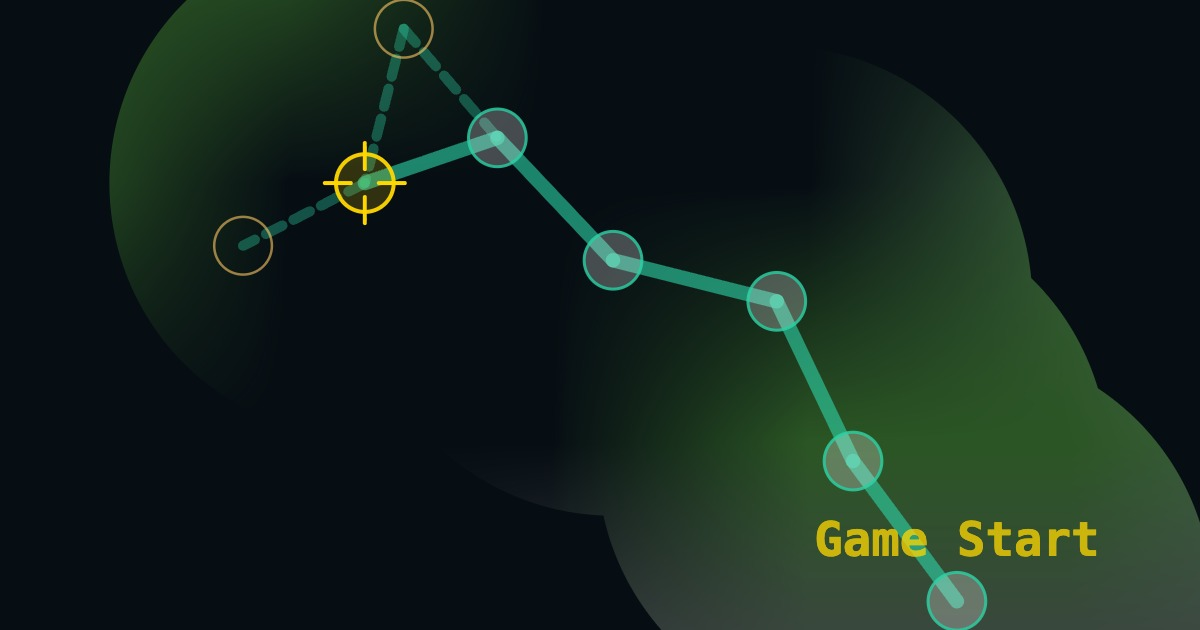
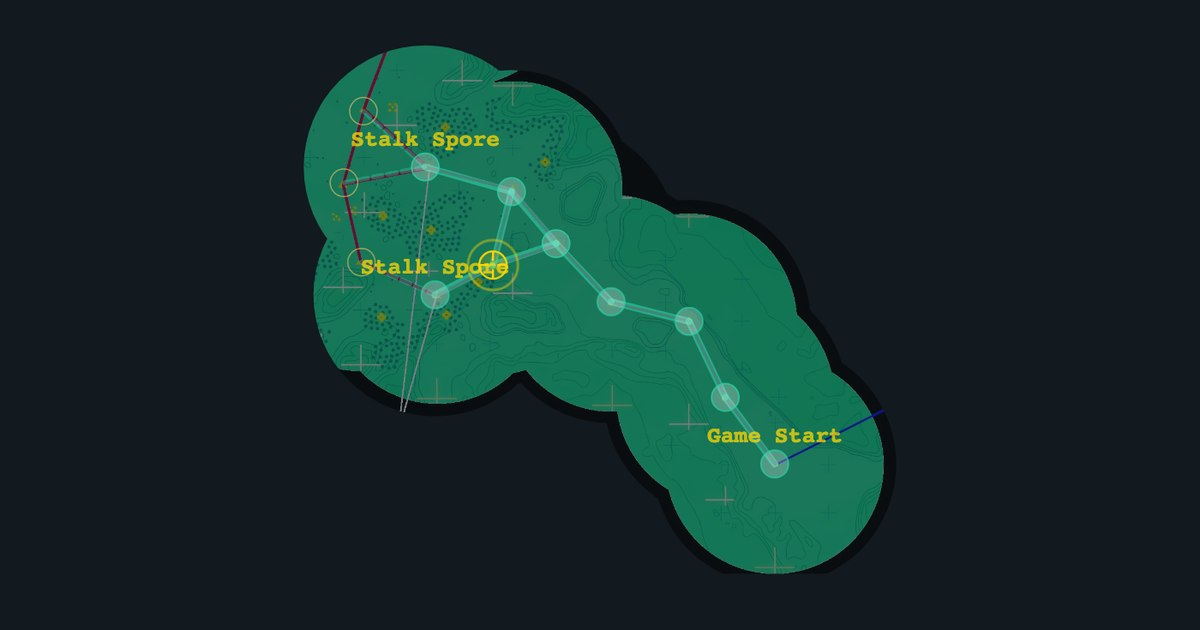
feat: add repeatable og-image generation script
Adds tools/gen_og_image.py, which uses Playwright to render the app with an
interesting explored-node chain, screenshot the map element, and crop it to
a 1200x630 social-preview image at assets/og-image.jpg. Run via
`just og-image`. Regenerated the image to reflect current styling (marker,
crosshair, and background color updates).

diff --git a/tools/gen_og_image.py b/tools/gen_og_image.py
@@ -1,0 +1,78 @@
+#!/usr/bin/env python3
+"""Regenerate assets/og-image.jpg from a live render of index.html.
+
+Usage: uv run python tools/gen_og_image.py
+"""
+import functools
+import http.server
+import io
+import threading
+from pathlib import Path
+
+from PIL import Image
+from playwright.sync_api import sync_playwright
+
+ROOT = Path(__file__).resolve().parent.parent
+OUT = ROOT / "assets" / "og-image.jpg"
+TARGET_W, TARGET_H = 1200, 630
+
+# BFS out from Central Reef's Game Start to build an interesting explored
+# chain: several visited nodes plus a couple of frontier nodes still glowing.
+SETUP_JS = """
+() => {
+  localStorage.clear();
+  buildMap('central_reef');
+  const start = cur;
+  const visited = new Set([start]);
+  const queue = [start];
+  while (queue.length && visited.size < 9) {
+    const n = queue.shift();
+    for (const [a, b] of E) {
+      let other = null;
+      if (a === n) other = b; else if (b === n) other = a;
+      if (other != null && !visited.has(other)) { visited.add(other); queue.push(other); }
+    }
+  }
+  vis = visited;
+  cur = [...visited][visited.size - 3]; // a node partway along the chain, not the very end
+  fog = true;
+  save();
+  buildMap('central_reef');
+}
+"""
+
+
+def main():
+    handler = functools.partial(http.server.SimpleHTTPRequestHandler, directory=str(ROOT))
+    server = http.server.ThreadingHTTPServer(("127.0.0.1", 0), handler)
+    port = server.server_address[1]
+    thread = threading.Thread(target=server.serve_forever, daemon=True)
+    thread.start()
+
+    try:
+        with sync_playwright() as p:
+            browser = p.chromium.launch()
+            page = browser.new_page(viewport={"width": 1400, "height": 1000})
+            page.goto(f"http://127.0.0.1:{port}/index.html")
+            page.evaluate(SETUP_JS)
+            page.wait_for_timeout(300)  # let render()/CSS settle
+            map_el = page.query_selector("#map")
+            png_bytes = map_el.screenshot()
+            browser.close()
+    finally:
+        server.shutdown()
+
+    img = Image.open(io.BytesIO(png_bytes)).convert("RGB")
+    scale = max(TARGET_W / img.width, TARGET_H / img.height)
+    resized = img.resize((round(img.width * scale), round(img.height * scale)), Image.LANCZOS)
+    left = (resized.width - TARGET_W) // 2
+    top = (resized.height - TARGET_H) // 2
+    cropped = resized.crop((left, top, left + TARGET_W, top + TARGET_H))
+
+    OUT.parent.mkdir(exist_ok=True)
+    cropped.save(OUT, "JPEG", quality=87)
+    print(f"Wrote {OUT} ({OUT.stat().st_size // 1024} KB)")
+
+
+if __name__ == "__main__":
+    main()